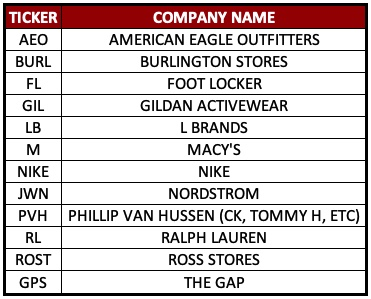
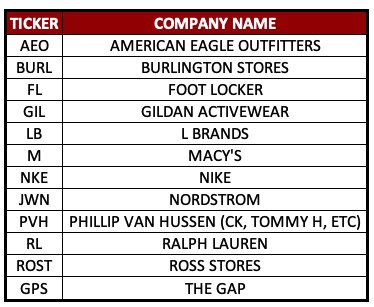
fixed nike ticker to nke

diff --git a/style.css b/style.css
@@ -212,7 +212,3 @@ iframe{
   width: 50%;
   height: 50%;
 }
-
-#{
-  color: maroon;
-}

diff --git a/README.md b/README.md
@@ -3,7 +3,7 @@ A simplified way of looking and financial data to use for competitive analysis.
 
 
 Description: 
-This is a business tool to use for quick competitive analysis. This tool should be used to help small businesses understand industry metrics in a digestible format for most. The goal is to show sales and margins over time for certain businesses or industries. Most applications that show financial data in an easy manner do so in a manner that is more stock market research friendly verses the average consumer.  The key here is to take out the information that is used in most stock exchange applications.  Most of that information is often confusing and overwhelming for the average business.
+This is a business tool to use for quick competitive analysis. This tool should be used to help small businesses understand industry metrics in a digestible format for most. The goal is to show sales and margins over time for certain businesses or industries. Most applications that show financial data in an easy manner do so in a manner that is more stock market research friendly verses the average consumer.  The key here is to take out the information that is used in most stock exchange applications.  Most of that information is often confusing and overwhelming for the average business. Live site https://silly-brattain-5809a7.netlify.com/search.html .
 
 
 
@@ -22,6 +22,9 @@ a)	Easy Access:
 b)	Preferred but may be limited.
 1.	Neilson.com
 2.	Yahoo Finance API
+
+c)API currently used which does search by company ticker:
+1.  https://rapidapi.com/last10k/api/SEC%20Filings
 
 
 
